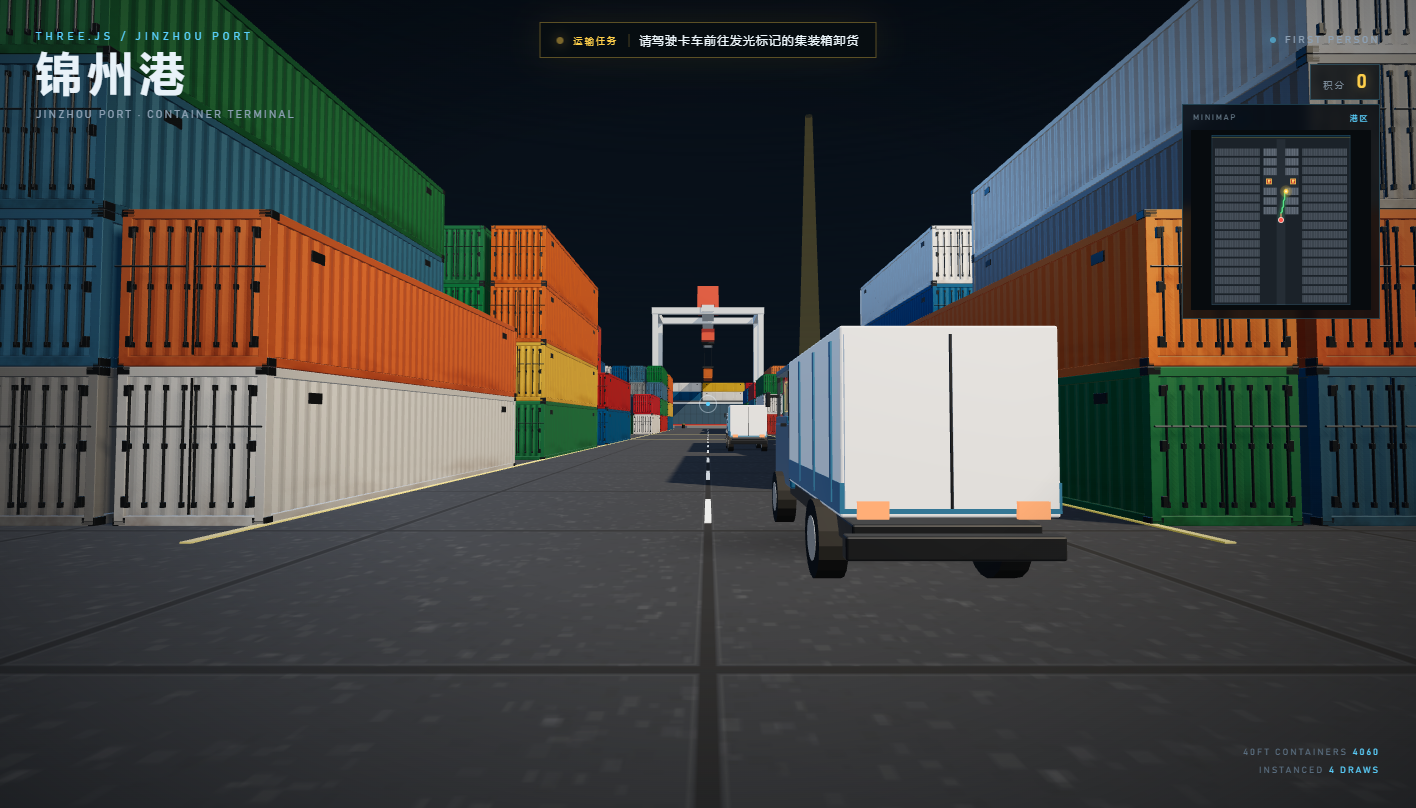
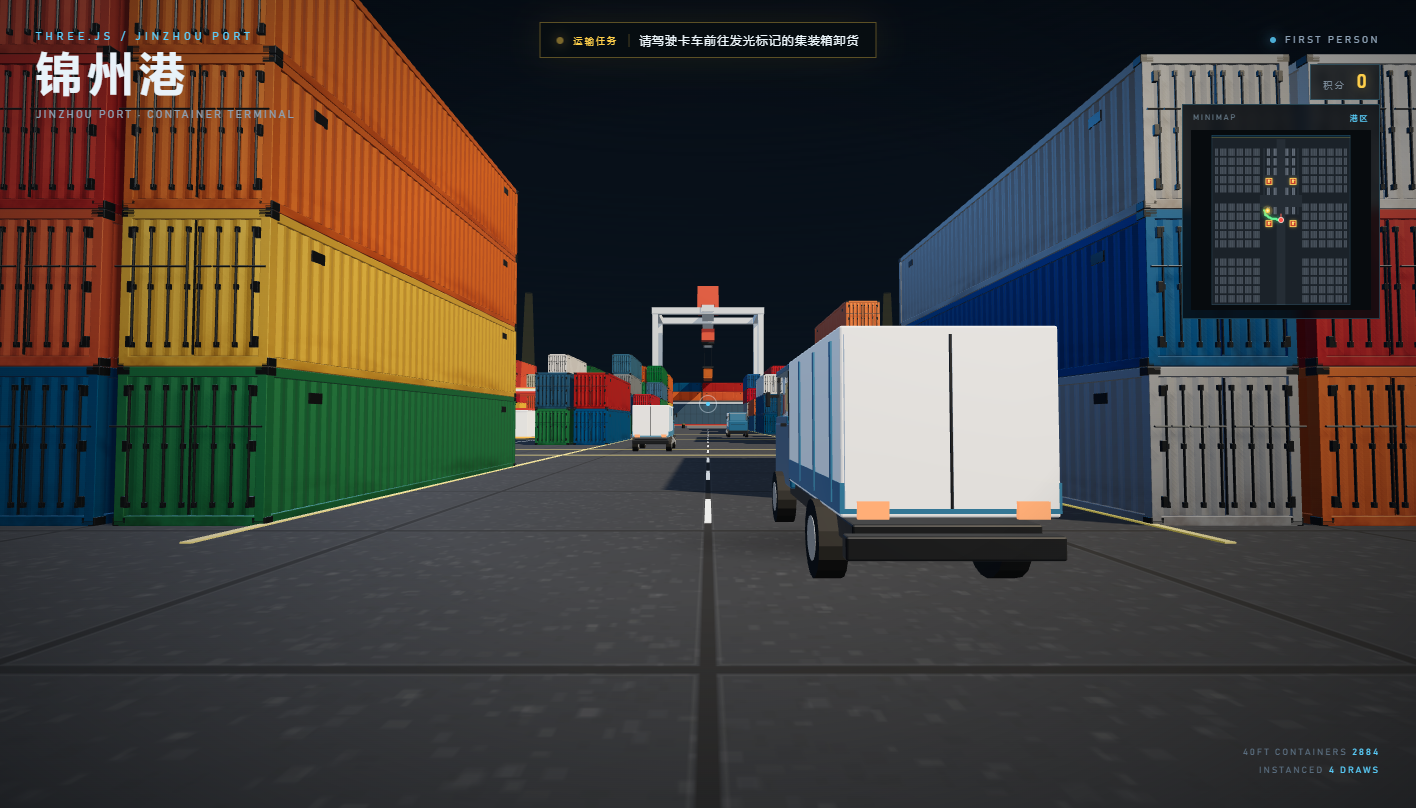
feat: 多道路布局、四个加油站与随机目标点
- 详细作业区切分为 4 个集装箱块，新增两条南北支路和 z=32.5 横向通道
- 外围 LOD 堆场每 5 列 / 6 行让出服务道路，总箱量调整为 2884
- 加油站扩展到 4 个：±20,0 与 ±20,70
- 目标点改为 40 个支路旁堆位随机选择，不再集中在中央大道
- 每个目标拥有独立支路卸货位、青色高亮和 A* 目标点
- 小地图绘制新路网与 4 个加油站图标
- 更新布局预览和 README

diff --git a/index.html b/index.html
@@ -1035,6 +1035,17 @@
     const SHIP_Z = -112;
     const WORLD = { minX: -115, maxX: 115, minZ: -77, maxZ: 205 };
 
+    // The detailed yard is split into four container blocks. Two parallel
+    // north-south roads are cut through each side, plus a wide east-west
+    // cross road at z = 32.5.
+    const DETAIL_ROAD_COLUMNS = new Set([2, 3, 6, 7]);
+    const DETAIL_TARGET_COLUMNS = new Set([0, 1, 4, 5]);
+    const DETAIL_CROSS_ROAD_Z = 32.5;
+    const detailedColumnX = (column) =>
+      AISLE_HALF + CONTAINER.w / 2 + column * COL_PITCH;
+    const DETAIL_ROAD_X_A = (detailedColumnX(1) + detailedColumnX(4)) / 2;
+    const DETAIL_ROAD_X_B = 28.0;
+
     /* ------------------------------------------------------------------ */
     /*  Renderer                                                           */
     /* ------------------------------------------------------------------ */
@@ -1367,6 +1378,15 @@
     addPaint(58, 0.16, 0, -10.6, paintYellow);
     addPaint(58, 0.16, 0, 10.6, paintYellow);
 
+    // Parallel service roads between the detailed container blocks.
+    for (const roadX of [-DETAIL_ROAD_X_B, -DETAIL_ROAD_X_A, DETAIL_ROAD_X_A, DETAIL_ROAD_X_B]) {
+      addPaint(0.12, 110, roadX, 0, paintWhite);
+    }
+
+    // Wide east-west cross road through the detailed yard.
+    addPaint(68, 0.16, 0, DETAIL_CROSS_ROAD_Z - 3.0, paintYellow);
+    addPaint(68, 0.16, 0, DETAIL_CROSS_ROAD_Z + 3.0, paintYellow);
+
     /* ------------------------------------------------------------------ */
     /*  Containers (single InstancedMesh)                                  */
     /* ------------------------------------------------------------------ */
@@ -1392,12 +1412,17 @@
       placements.push({ x, y, z, ry, color: color.clone() });
     }
 
-    // Yard stacks: 8 columns per side, 6 rows deep, 2-4 containers high.
+    // Yard stacks: six columns per side after two road corridors are cut out,
+    // five rows deep, with a wide cross road at z = 32.5.
     for (const side of [-1, 1]) {
       for (let column = 0; column < COLS; column++) {
-        const x = side * (AISLE_HALF + CONTAINER.w / 2 + column * COL_PITCH);
+        if (DETAIL_ROAD_COLUMNS.has(column)) continue;
+
+        const x = side * detailedColumnX(column);
 
         for (const z of ROW_Z) {
+          if (z === DETAIL_CROSS_ROAD_Z) continue;
+
           const height = 2 + Math.floor(rand() * 3);
 
           for (let level = 0; level < height; level++) {
@@ -1416,8 +1441,14 @@
           });
           mapStacks.push({ x, z, type: 'detail' });
 
-          if (column === 0) {
+          if (DETAIL_TARGET_COLUMNS.has(column)) {
             const rowIndex = ROW_Z.indexOf(z);
+            const accessRoad =
+              column === 0 ? AISLE_HALF - 2.0 :
+              (column === 1 || column === 4) ? DETAIL_ROAD_X_A :
+              DETAIL_ROAD_X_B;
+            const accessX = side * accessRoad;
+
             warehouseTargets.push({
               x,
               z,
@@ -1425,7 +1456,9 @@
               side,
               row: rowIndex,
               area: `${side < 0 ? 'A' : 'B'}-${String(rowIndex + 1).padStart(2, '0')}`,
-              utilization: 60 + Math.floor(targetRand() * 36)
+              utilization: 60 + Math.floor(targetRand() * 36),
+              accessX,
+              accessDir: Math.sign(accessX - x)
             });
           }
         }
@@ -1455,9 +1488,15 @@
 
     for (const side of [-1, 1]) {
       for (let column = 0; column < BULK_COLS; column++) {
+        // Every fifth column becomes a north-south service road.
+        if (column % 5 === 4) continue;
+
         const x = side * (BULK_START_X + column * COL_PITCH);
 
         for (let row = 0; row < BULK_ROWS; row++) {
+          // Every sixth row becomes an east-west service road.
+          if (row % 6 === 5) continue;
+
           const z = -48.5 + row * 15.2;
           const height = 3 + Math.floor(rand() * 3);
           const ry = ((column + row + (side > 0 ? 1 : 0)) % 4 === 0) ? Math.PI : 0;
@@ -1899,10 +1938,10 @@
       targetBeam.position.y = target.topY + 11;
       targetBox.scale.y = target.topY;
       targetBox.position.y = target.topY / 2;
-      targetBay.position.x = target.x < 0 ? 3.2 : -3.2;
+      targetBay.position.x = target.accessX - target.x;
       targetStripe.scale.y = target.topY;
       targetStripe.position.set(
-        target.x < 0 ? CONTAINER.w / 2 + 0.08 : -CONTAINER.w / 2 - 0.08,
+        target.accessDir * (CONTAINER.w / 2 + 0.08),
         target.topY / 2,
         0
       );
@@ -1981,9 +2020,14 @@
       unloadWarehouseTarget();
     });
 
-    const initialWarehouseIndex = Math.max(0, warehouseTargets.findIndex(
-      (target) => target.side === 1 && target.z > 10 && target.z < 25
-    ));
+    const initialCandidates = [];
+    warehouseTargets.forEach((target, index) => {
+      const distance = Math.hypot(target.x, target.z - 64);
+      if (distance > 25) initialCandidates.push(index);
+    });
+    const initialWarehouseIndex = initialCandidates.length
+      ? initialCandidates[Math.floor(Math.random() * initialCandidates.length)]
+      : Math.floor(Math.random() * warehouseTargets.length);
     if (warehouseTargets[initialWarehouseIndex]) {
       warehouseTargets[initialWarehouseIndex].utilization = 92;
     }
@@ -1994,7 +2038,9 @@
     /* ------------------------------------------------------------------ */
     const gasStations = [
       { x: 20, z: 0, name: '东区加油站' },
-      { x: -20, z: 0, name: '西区加油站' }
+      { x: -20, z: 0, name: '西区加油站' },
+      { x: 20, z: 70, name: '东北加油站' },
+      { x: -20, z: 70, name: '西北加油站' }
     ];
     const REFUEL_RADIUS = 7.5;
     const REFUEL_COST = 50;
@@ -2913,8 +2959,7 @@
     }
 
     function getWarehouseNavGoal(target) {
-      const side = target.x < 0 ? -1 : 1;
-      return { x: side * (AISLE_HALF - 2.0), z: target.z };
+      return { x: target.accessX, z: target.z };
     }
 
     let currentPath = [];
@@ -3008,6 +3053,22 @@
         worldToMapY(-10.6),
         60 * MAP_SCALE,
         21.2 * MAP_SCALE
+      );
+
+      // Parallel north-south roads and the wide z = 32.5 cross road.
+      for (const roadX of [-DETAIL_ROAD_X_B, -DETAIL_ROAD_X_A, DETAIL_ROAD_X_A, DETAIL_ROAD_X_B]) {
+        ctx.fillRect(
+          worldToMapX(roadX - 1.6),
+          worldToMapY(-55),
+          3.2 * MAP_SCALE,
+          110 * MAP_SCALE
+        );
+      }
+      ctx.fillRect(
+        worldToMapX(-35),
+        worldToMapY(DETAIL_CROSS_ROAD_Z - 10),
+        70 * MAP_SCALE,
+        20 * MAP_SCALE
       );
 
       const stackWidth = CONTAINER.w * MAP_SCALE;

diff --git a/README.md b/README.md
@@ -23,7 +23,9 @@
 
 ## 模块二：加油站与补能网络
 
-- 港区东西两侧各设一个加油站，位置为 `(±20, 0)`，位于中央大通道两侧的横向通道内
+- 港区设 **4 个加油站**，位置为 `(±20, 0)` 与 `(±20, 70)`：
+  - 两个位于中央横向通道
+  - 两个位于码头后方的开放通道
 - 加油站为 Blender 低模资产：红黄配色雨棚、立柱、双加油机、便利店、价格牌、防撞柱
 - 油量低于 **20%** 时提示 `油量不足，请前往加油站`
 - 驶入加油站范围、停稳后自动加油：
@@ -36,7 +38,11 @@
 
 ## 模块三：仓储调度与爆仓预警
 
-- 目标改为中央通道内侧的**目标集装箱堆位**，由以下元素标记：
+- 目标不再固定在中央大道，而是随机分布在多条支路旁的**集装箱块堆位**：
+  - 详细作业区被切分为 4 个集装箱块
+  - 每个目标堆位都带有自己的支路卸货位
+  - 全港共 40 个可选目标堆位，每次提货后随机选择，距离当前位置 18 米以上
+- 由以下元素标记：
   - 22 米高的黄色发光柱
   - 目标堆位的青色发光竖条与线框
   - 集装箱旁地面的黄色卸货位线框
@@ -61,7 +67,7 @@
 - 灰色块表示集装箱排布
 - 红色点表示当前步行玩家或驾驶中的卡车
 - 黄色点表示当前目标集装箱
-- 红黄加油站图标标记两个补能站
+- 红黄加油站图标标记四个补能站
 - 绿色线是从当前位置到目标卸货位的 **A* 最短路径**
   - 2 米网格
   - 1.1 米安全间距
@@ -71,10 +77,15 @@
 
 ![A* 路径与加油站图标](preview-map.png)
 
-## 场景
+## 场景与道路
 
 - 约 600 × 400 的深灰色混凝土码头
-- **4060 个 40ft 集装箱**：412 个高精模型 + 3648 个 LOD 模型，仅 4 次 draw call
+- **2884 个 40ft 集装箱**：242 个高精模型 + 2642 个 LOD 模型，仅 4 次 draw call
+- 详细作业区切分为 4 个集装箱块，块间是可直接行驶的支路：
+  - 中央主通道
+  - 两条南北向支路（约 `x = ±15.3`、`x = ±28.0`）
+  - `z = 32.5` 的东西向横向通道
+- 外围 LOD 堆场每 5 列 / 6 行让出一条服务道路，整个港区形成网格化道路系统
 - 3 辆 Blender 轻卡，OBB 碰撞箱，卡车之间不能互相穿透
 - 海岸线、集装箱船、岸桥、锦州港大门
 - 一辆缓慢航行的远洋集装箱船
@@ -92,7 +103,7 @@
 
 ## 性能
 
-- 4060 个集装箱使用 InstancedMesh，4 次 draw call
+- 2884 个集装箱使用 InstancedMesh，4 次 draw call
 - 阴影贴图只烘焙一次；加油站加载后补一次静态更新
 - 小地图静态底图一次性生成，动态路径/图标按 30 FPS 绘制
 - A* 使用 2 米网格和二叉堆，按需重算，不阻塞主渲染
